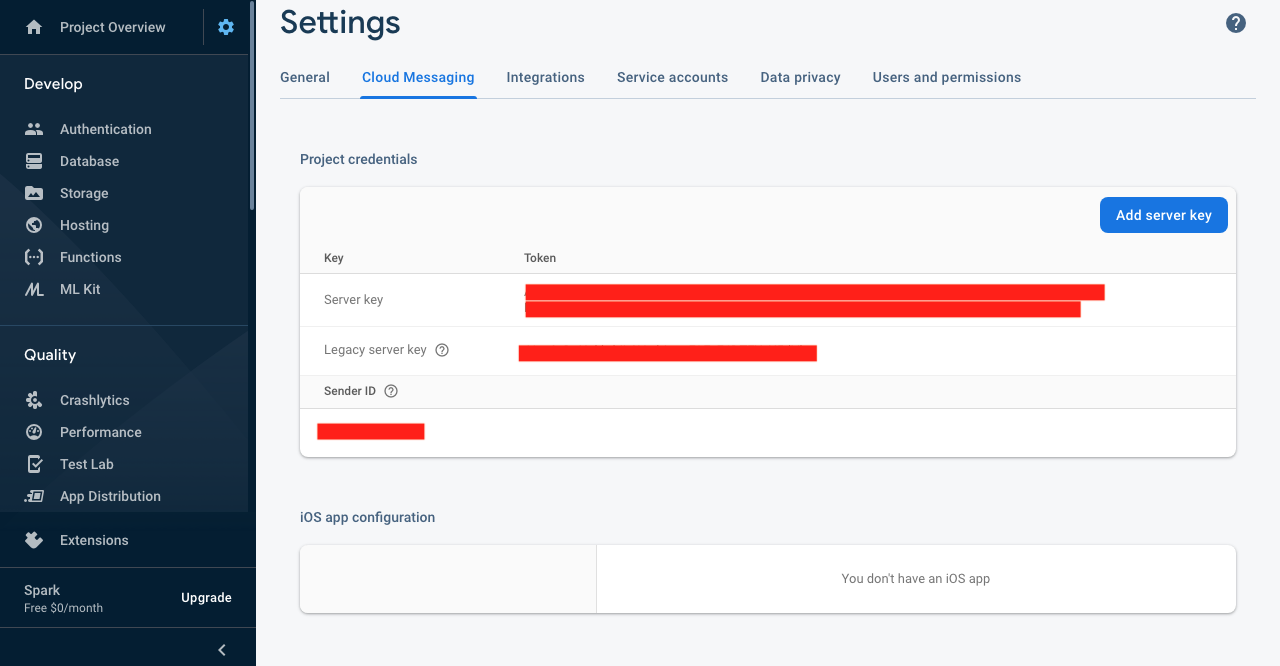
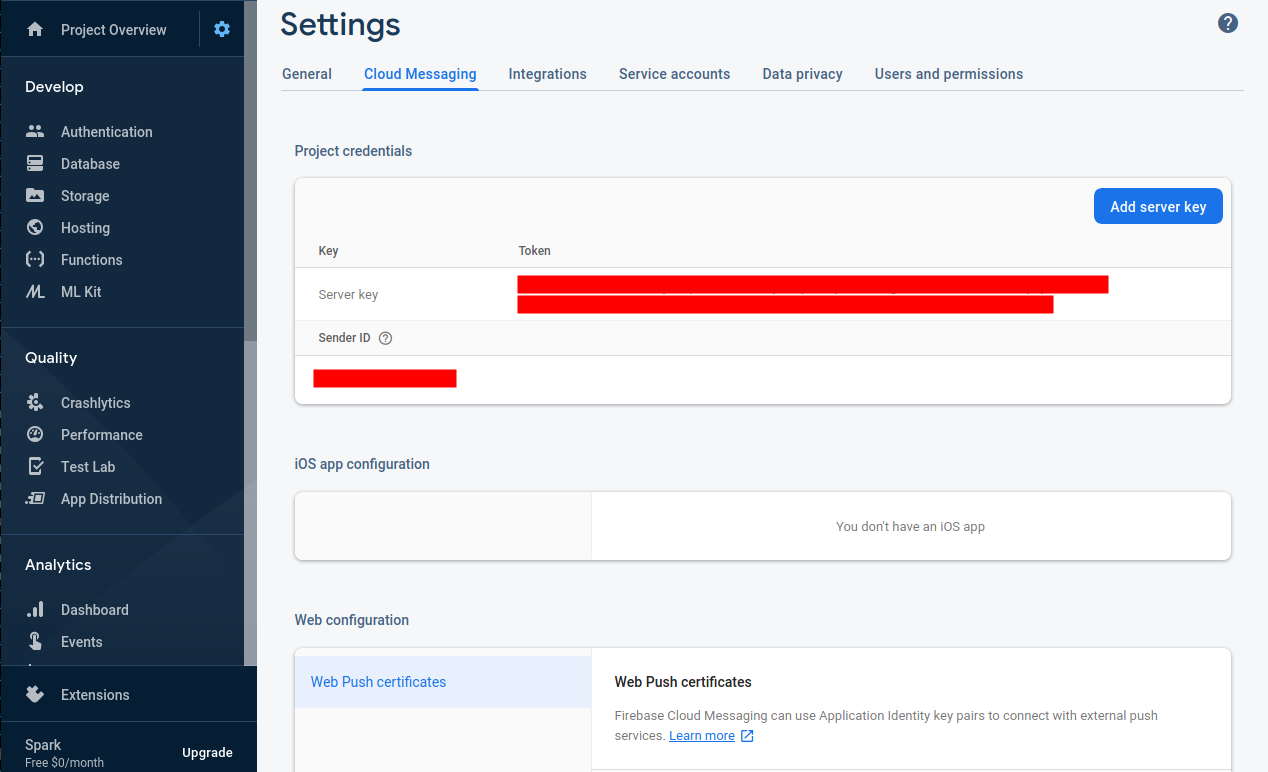
remove legacy FCM server key from SDK docs

diff --git a/src/jekyll/docs/sdk/android/android-sdk-en.md b/src/jekyll/docs/sdk/android/android-sdk-en.md
@@ -17,7 +17,7 @@ implementation 'ir.metrix:metrix:0.14.7'
 ```
 
 2\. You need to initialize the Metrix SDK in `onCreate` method of your `Application`. 
-If you do not already have a class `Application` in your project, create this class as below:
+If you do not already have a `Application` class in your project, create this class as below:
 
 - Create a class that inherits from the `Application` class:
 
@@ -180,15 +180,15 @@ Metrix’s app uninstall tracking relies on silent push notifications to determi
 
 Developer instructions for configuring your app for uninstall tracking can be found below.
 
-- Find your FCM legacy server key
+- Find your FCM server key
 
-In your Firebase console, select the settings (gear) icon > Project settings. Select CLOUD MESSAGING and locate your `legacy Server key` and `sender id` token.
+In your Firebase console, select the settings (gear) icon > Project settings. Select CLOUD MESSAGING and locate your `Server key` and `sender id` token.
 
 <img src="{{ '/images/firebase-cloud-messaging.png' | relative_url }}" alt="firebase cloud messageing"/>
 
-- Add your FCM legacy server key and sender id to your Metrix account
+- Add your FCM server key and sender id to your Metrix account
 
-In the Metrix dashboard, navigate to your app and select your app settings. Select Push configurationand enter or paste your FCM legacy server key into the Legacy Server Key field and FCM sender id into Sender Id field. Select Save.
+In the Metrix dashboard, navigate to your app and select your app settings. Select Push configuration and enter or paste your FCM server key into the Server Key field and FCM sender id into Sender Id field. Select Save.
 
 <img src="{{ '/images/push-configuration.png' | relative_url }}" alt="push configuration"/>
 
@@ -207,7 +207,7 @@ metrixConfig.setFirebaseAppId("your firebase app id");
 **Note:** Please check out the [SDK Configuration](#SDK-Configuration) section for further considerations on configuring the SDK.
 
 
-### Get User Attribution
+## Get User Attribution
 
 In case you want to access info about your user's current attribution when ever you need it, you can make a call to the following method of the Metrix instance:
 
@@ -437,9 +437,7 @@ The default value is 30 minutes.
 Using this method, you can inform Metrix to gather information about user's flow in each `Activity`/`Fragment` and these details should be stored automatically:
 
 ```java
-MetrixConfig metrixConfig = new  MetrixConfig(this, yourAppId);
 metrixConfig.setScreenFlowsAutoFill(true);
-Metrix.onCreate(metrixConfig);
 ```
 
 The default value is false.
@@ -484,7 +482,7 @@ metrixConfig.setOnReceiveUserIdListener(new OnReceiveUserIdListener() {
 **Note:** Information about the adId is only available after our backend tracks the app installation. It is not possible to access the adId value before the SDK has been initialized and the installation of your app has been successfully tracked.
 
 
-### Metrix Session Identifier
+## Metrix Session Identifier
 For each session, our sdk generates a unique Metrix session identifier (knowns as an mxsid). In order to obtain this identifier, call the following method on the `MetrixConfig` instance:
 
 ```java

diff --git a/src/jekyll/docs/sdk/android/android-sdk-fa.md b/src/jekyll/docs/sdk/android/android-sdk-fa.md
@@ -200,20 +200,20 @@ Metrix.getInstance().addUserMetrics(metrics);
 
 برای پیاده سازی این ابزار مراحل زیر را دنبال کنید.
 
-- پیدا کردن FCM legacy server key
+- پیدا کردن FCM server key
 
 ابتدا به کنسول فایربیس خود رفته.
 دکمه settings را زده سپس به Project settings بروید
 تب Cloud Messaging را انتخاب کنید.
-حالا میتوانید `legacy server key` و `sender id` را بردارید
+حالا میتوانید `server key` و `sender id` را بردارید
 
 <img src="{{ '/images/firebase-cloud-messaging.png' | relative_url }}" alt="firebase cloud messageing"/>
 
-- اضافه کردن FCM legacy server key و sender id به اکانت متریکس
+- اضافه کردن FCM server key و sender id به اکانت متریکس
 
 در داشبورد متریکس به تنظیمات اپلیکیش خود رفته
 تب Push Configuration را انتخاب کنید
-حالا میتوانید FCM legacy server key و sender id را در فیلد های مناسب قرار دهید و دکمه save را بزنید
+حالا میتوانید FCM server key و sender id را در فیلد های مناسب قرار دهید و دکمه save را بزنید
 
 <img src="{{ '/images/push-configuration.png' | relative_url }}" alt="push configuration"/>
 
